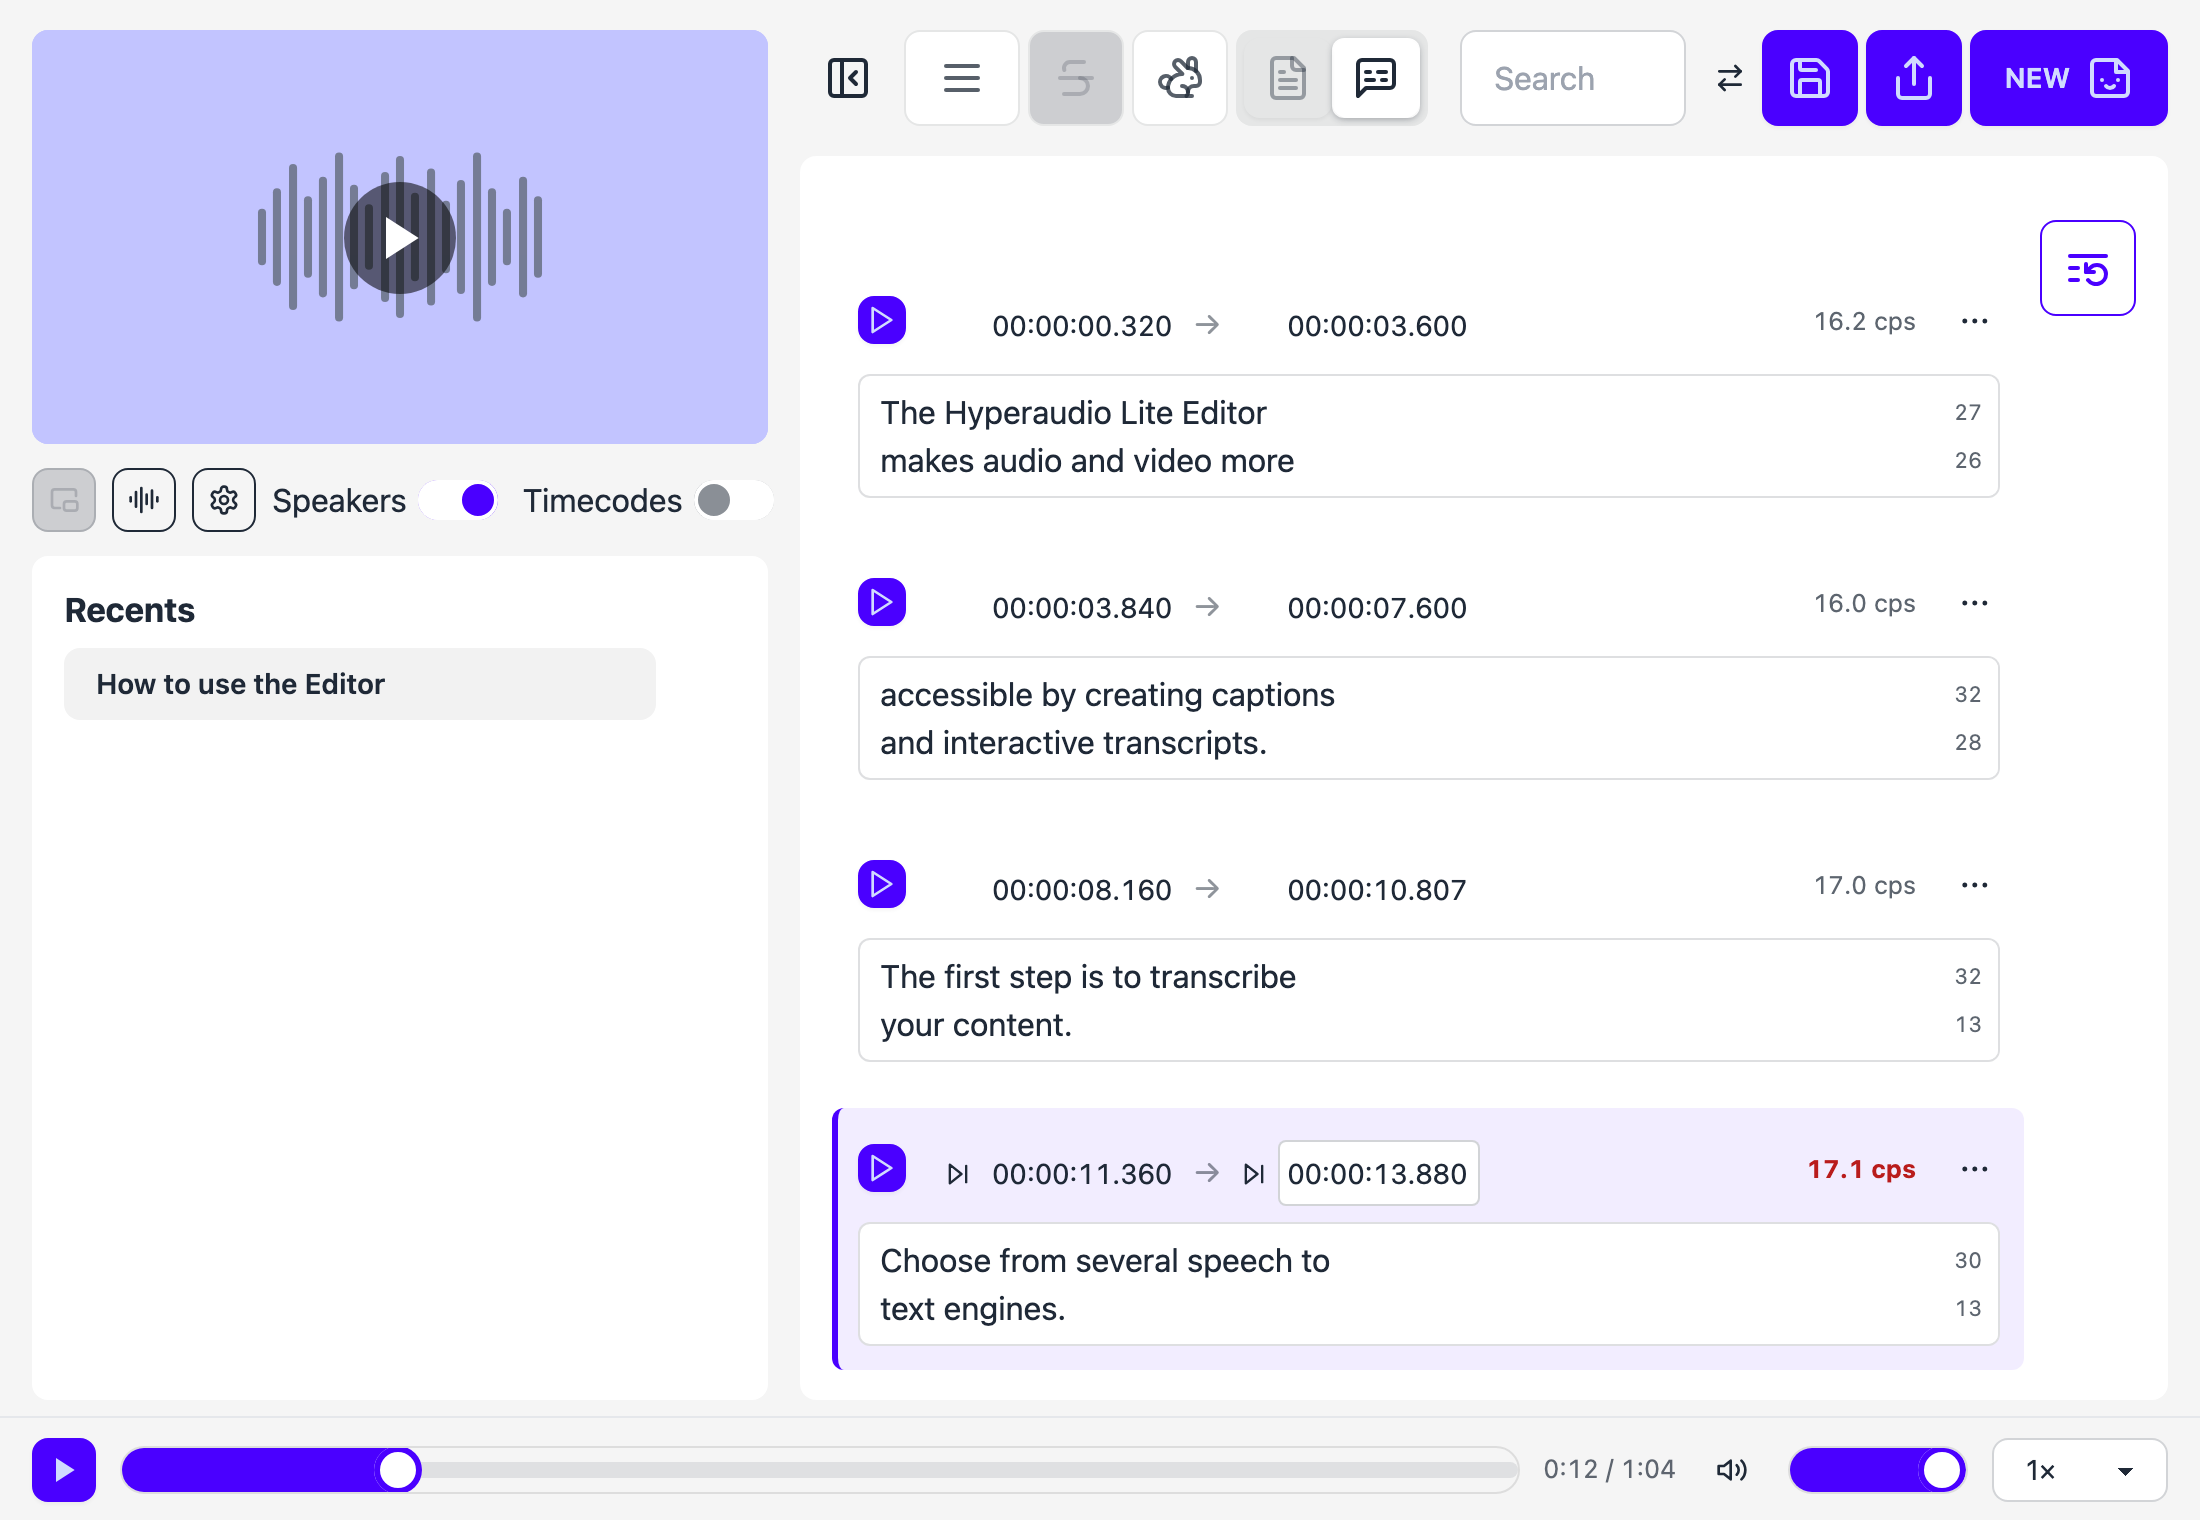
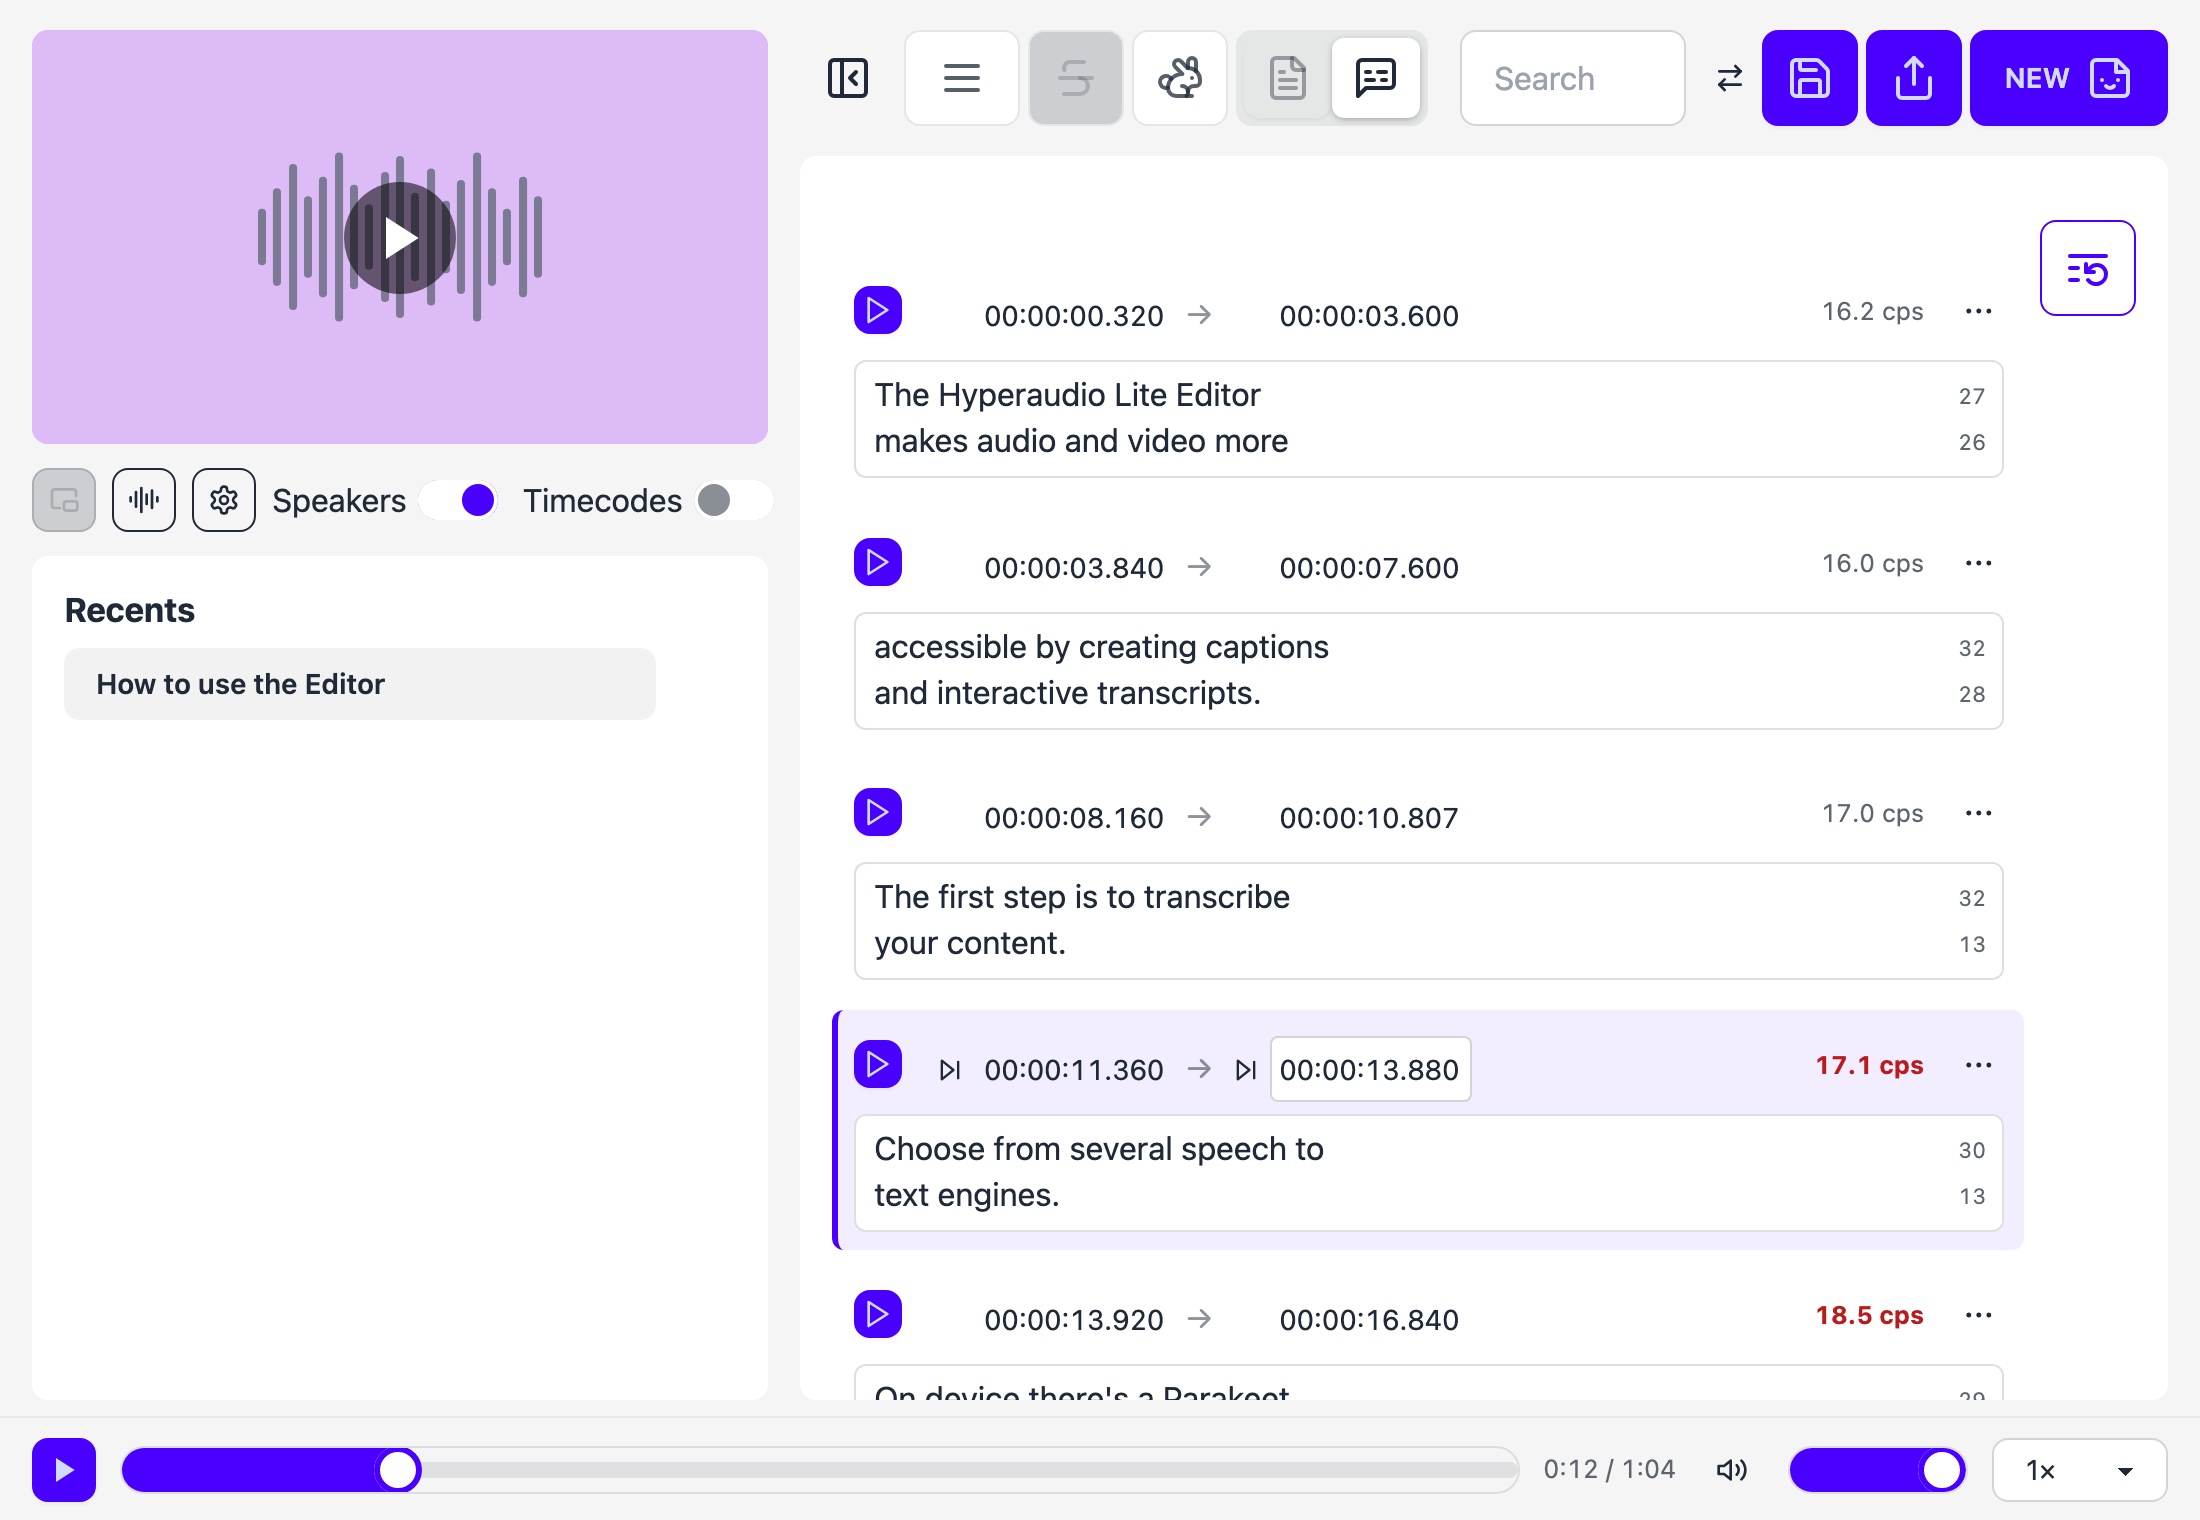
The caption rows: a touch less room (#773)
Halfway back between the first spacing and the roomier one: row
padding, the gap between rows and the text box's padding and line
height all ease off a little. The README screenshot follows.

diff --git a/css/hyperaudio-lite-editor.css b/css/hyperaudio-lite-editor.css
@@ -2174,13 +2174,13 @@ html.ha-transcribing #upload-transcribe-btn {
   grid-template-columns: auto auto minmax(0, 1fr) auto auto;
   grid-template-areas: "play times text rate menu";
   align-items: start;
-  column-gap: 14px;
-  row-gap: 8px;
-  padding: 12px 12px 12px 10px;
+  column-gap: 12px;
+  row-gap: 6px;
+  padding: 9px 10px 9px 8px;
   border-left: 3px solid transparent;
   border-radius: 6px;
 }
-#captions-display .caption + .caption { margin-top: 10px; }
+#captions-display .caption + .caption { margin-top: 6px; }
 /* the cue that is playing */
 #captions-display .caption.caption-current {
   background: oklch(var(--p) / 0.07);
@@ -2226,10 +2226,10 @@ html.ha-transcribing #upload-transcribe-btn {
   box-sizing: border-box;
   resize: none;
   margin: 0;
-  padding: 6px 4.5ch 6px 10px;
+  padding: 5px 4.5ch 5px 9px;
   font: inherit;
   font-size: 1rem;
-  line-height: 1.5rem;
+  line-height: 1.45rem;
   white-space: pre;
   overflow: hidden;
   border: 1px solid oklch(var(--bc) / 0.15);
@@ -2248,7 +2248,7 @@ html.ha-transcribing #upload-transcribe-btn {
   top: 1px;
   right: 1px;
   bottom: 1px;
-  padding: 6px 8px 0 6px;
+  padding: 5px 8px 0 6px;
   display: flex;
   flex-direction: column;
   align-items: flex-end;
@@ -2258,7 +2258,7 @@ html.ha-transcribing #upload-transcribe-btn {
 }
 .caption-count {
   font-size: 0.68rem;
-  line-height: 1.5rem;
+  line-height: 1.45rem;
   font-variant-numeric: tabular-nums;
   color: oklch(var(--bc) / 0.72);
 }

diff --git a/index.html b/index.html
@@ -1324,7 +1324,7 @@ If you are creating an open source application under a license compatible with t
     #captions-display {
       width: 100%;
       max-width: 72rem;
-      padding: 44px 64px 16px 8px;
+      padding: 42px 64px 12px 8px;
     }
 
   </style>
